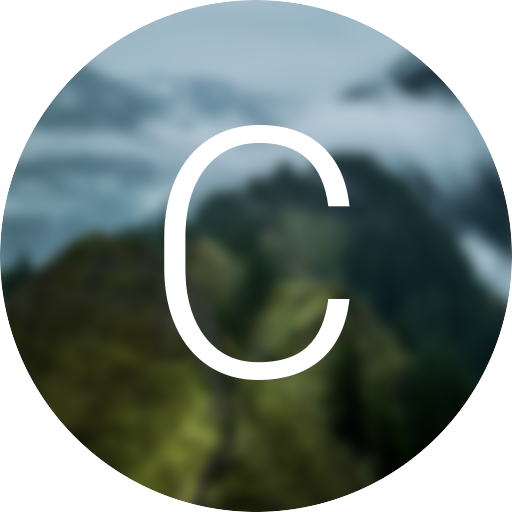
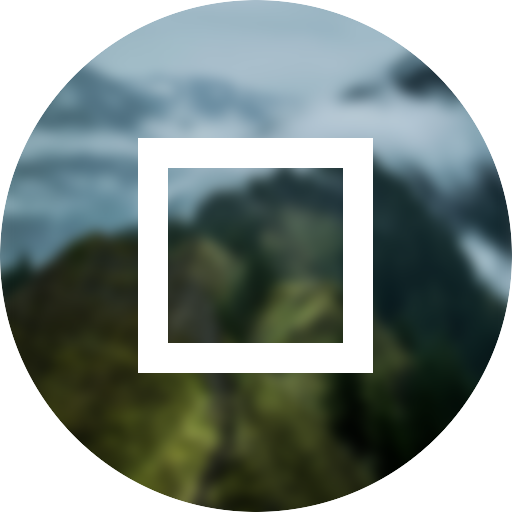
Rebrand to "Square Tab"

Changed region(s): [[0.25, 0.2188, 0.75, 0.75]]

diff --git a/views/popup.html b/views/popup.html
@@ -4,7 +4,7 @@
 
 <head>
   <meta charset="utf-8" />
-  <title>Clean Tab</title>
+  <title>Square Tab</title>
 
   <link rel="stylesheet" href="../styles/popup.css" />
 </head>
@@ -12,7 +12,7 @@
 <body>
 
   <div id="settings">
-    <h1>Clean Tab Settings</h1>
+    <h1>Square Tab Settings</h1>
 
     <label id="always-show-bookmarks" class="checkbox-container">
       <input type="checkbox" tabindex="-1" />
@@ -62,7 +62,7 @@
 
   <a
     id="github"
-    href="https://github.com/AlexanderOtavka/clean-tab"
+    href="https://github.com/AlexanderOtavka/square-tab"
     target="_blank"
     tabindex="-1">
 

diff --git a/README.md b/README.md
@@ -1,4 +1,4 @@
-# Clean Tab
+# Square Tab
 
 > A minimalistic but functional new tab page inspired by Mac Square's
 [Splash Tab](https://chrome.google.com/webstore/detail/splash-tab/ggljjfbnnofkajgcnleiglffhhbbommh?hl=en).
